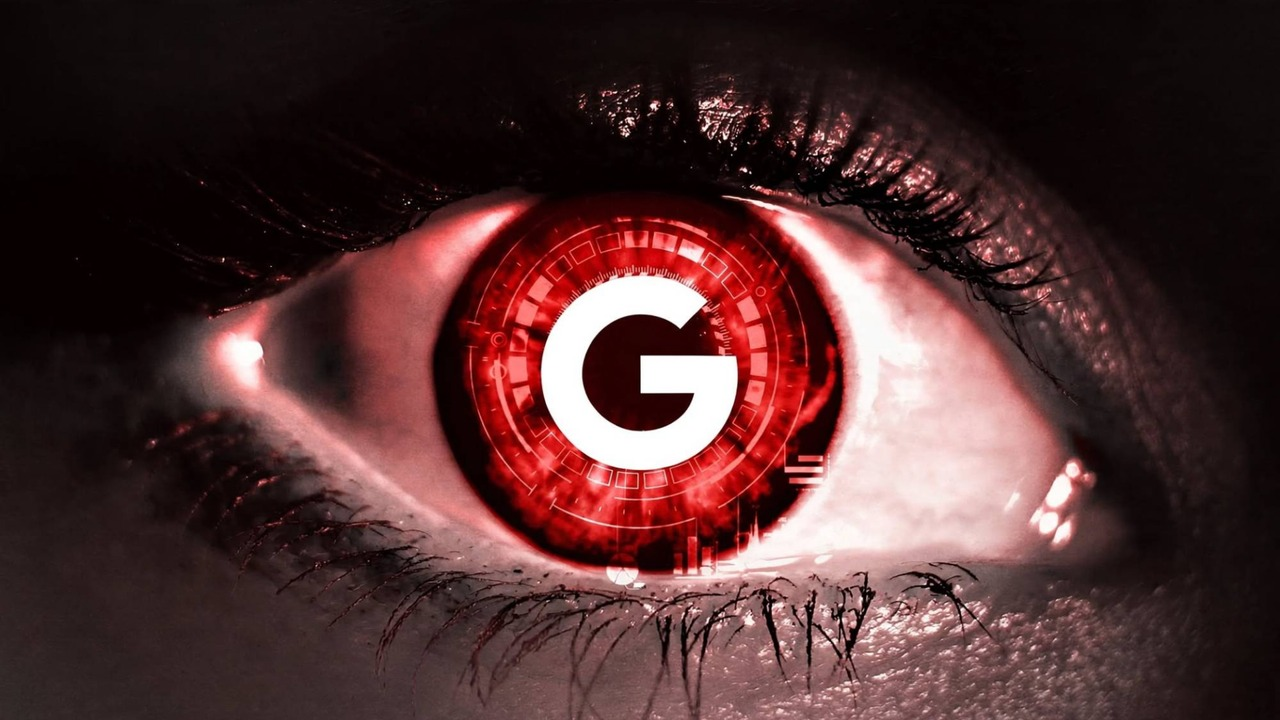
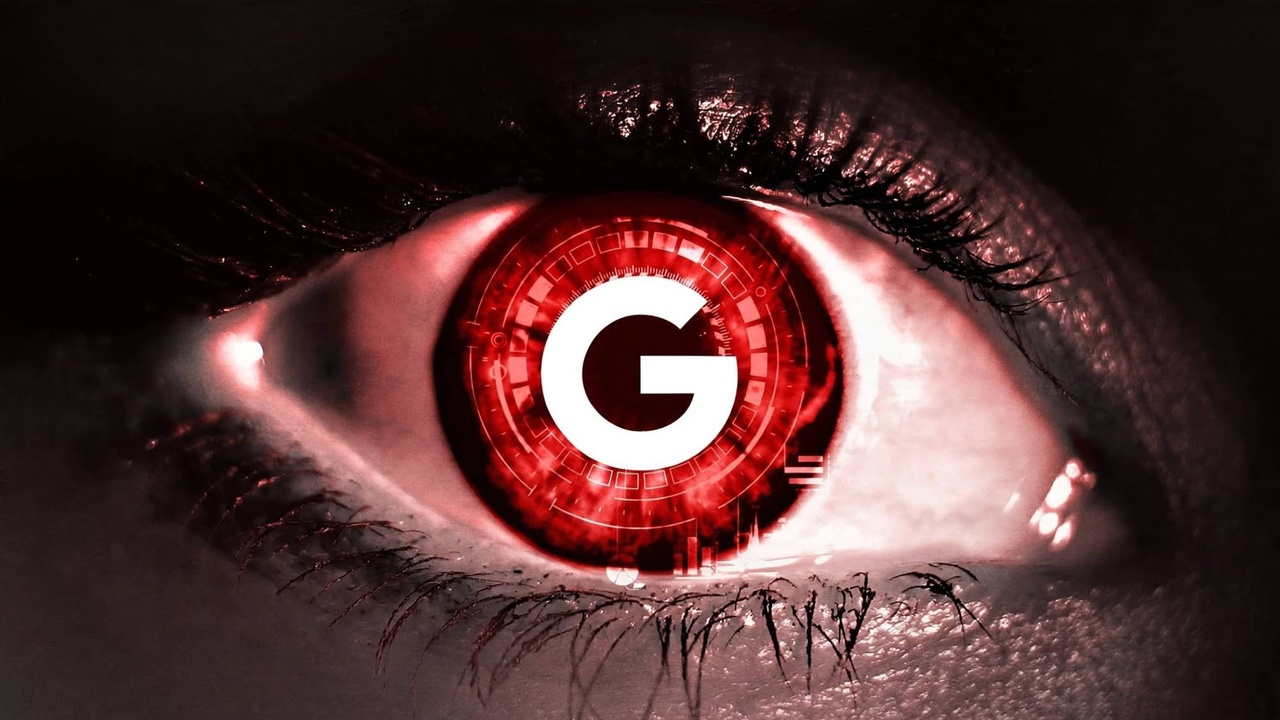
Miniatura final Google v2: imagem original enviada pelo utilizador (1280x720)
Claude-Session: https://claude.ai/code/session_01Kfc4CMismtNmc6gaq2Y3sW

diff --git a/docs/GOOGLE_V2_PACOTE_YOUTUBE.md b/docs/GOOGLE_V2_PACOTE_YOUTUBE.md
@@ -10,9 +10,8 @@ Publicar **primeiro como privado**, rever no Studio, e só depois tornar públic
 > Fórmula que funcionou no canal: afirmação concreta + reviravolta. Verificar com `vidiq_score_title` quando houver créditos.
 
 ## Miniatura (decidida pelo utilizador)
-**Imagem do olho vermelho com o G, sem texto** (o título diz do que trata o vídeo). Ficheiro pronto para o Studio: `out/thumb-google-FINAL.jpg` (1280×720, JPEG, <2 MB). Fonte da composição: `GoogleThumbBNoText` (`src/google2/Thumb.tsx`) e `public/google2/thumb/eye-ref.jpg`.
-Reserva (estilo do canal, sem texto): `out/thumb-google-A-sem-texto.png`.
-Aviso: a origem/licença da imagem do olho é do utilizador; o G é marca registada.
+**A imagem original que o utilizador enviou (olho vermelho com o G), sem texto e sem edição**, só ajustada a 16:9 e a 1280×720 (JPEG, <2 MB): `out/thumb-google-FINAL.jpg`. O título diz do que trata o vídeo.
+Aviso: a origem/licença da imagem é do utilizador; o G é marca registada.
 
 ## Capítulos (tempos reais da narração)
 0:00 3:12 a.m.: the question
